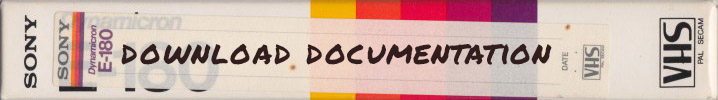
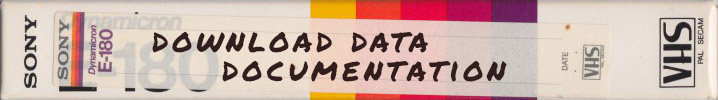
updated download area website

Changed region(s): [[0.1532, 0.3, 0.766, 0.81]]

diff --git a/index.html b/index.html
@@ -554,12 +554,17 @@
 
     <!-- Download documentation -->
     <div class="justify-content-center vhs-tape">
-      <a href="Chloe script.ipynb" download>
-        <img src="assets/img/sony_dynamicron_spine copia.jpg">
+      <a href="documentation/DOCUMENTATION.ipynb" download>
+        <img src="assets/img/skc_maxplay_vhs.jpg">
       </a>
     </div>
     <div class="justify-content-center vhs-tape">
-      <a href="Ahsan script.ipynb" download>
+      <a href="documentation/DATA.ipynb" download>
+        <img src="assets/img/sony_dynamicron_spine.jpg">
+      </a>
+    </div>
+    <div class="justify-content-center vhs-tape">
+      <a href="documentation/VIZ.ipynb" download>
         <img src="assets/img/sony_dynamicron_tape.jpg">
       </a>
     </div>
